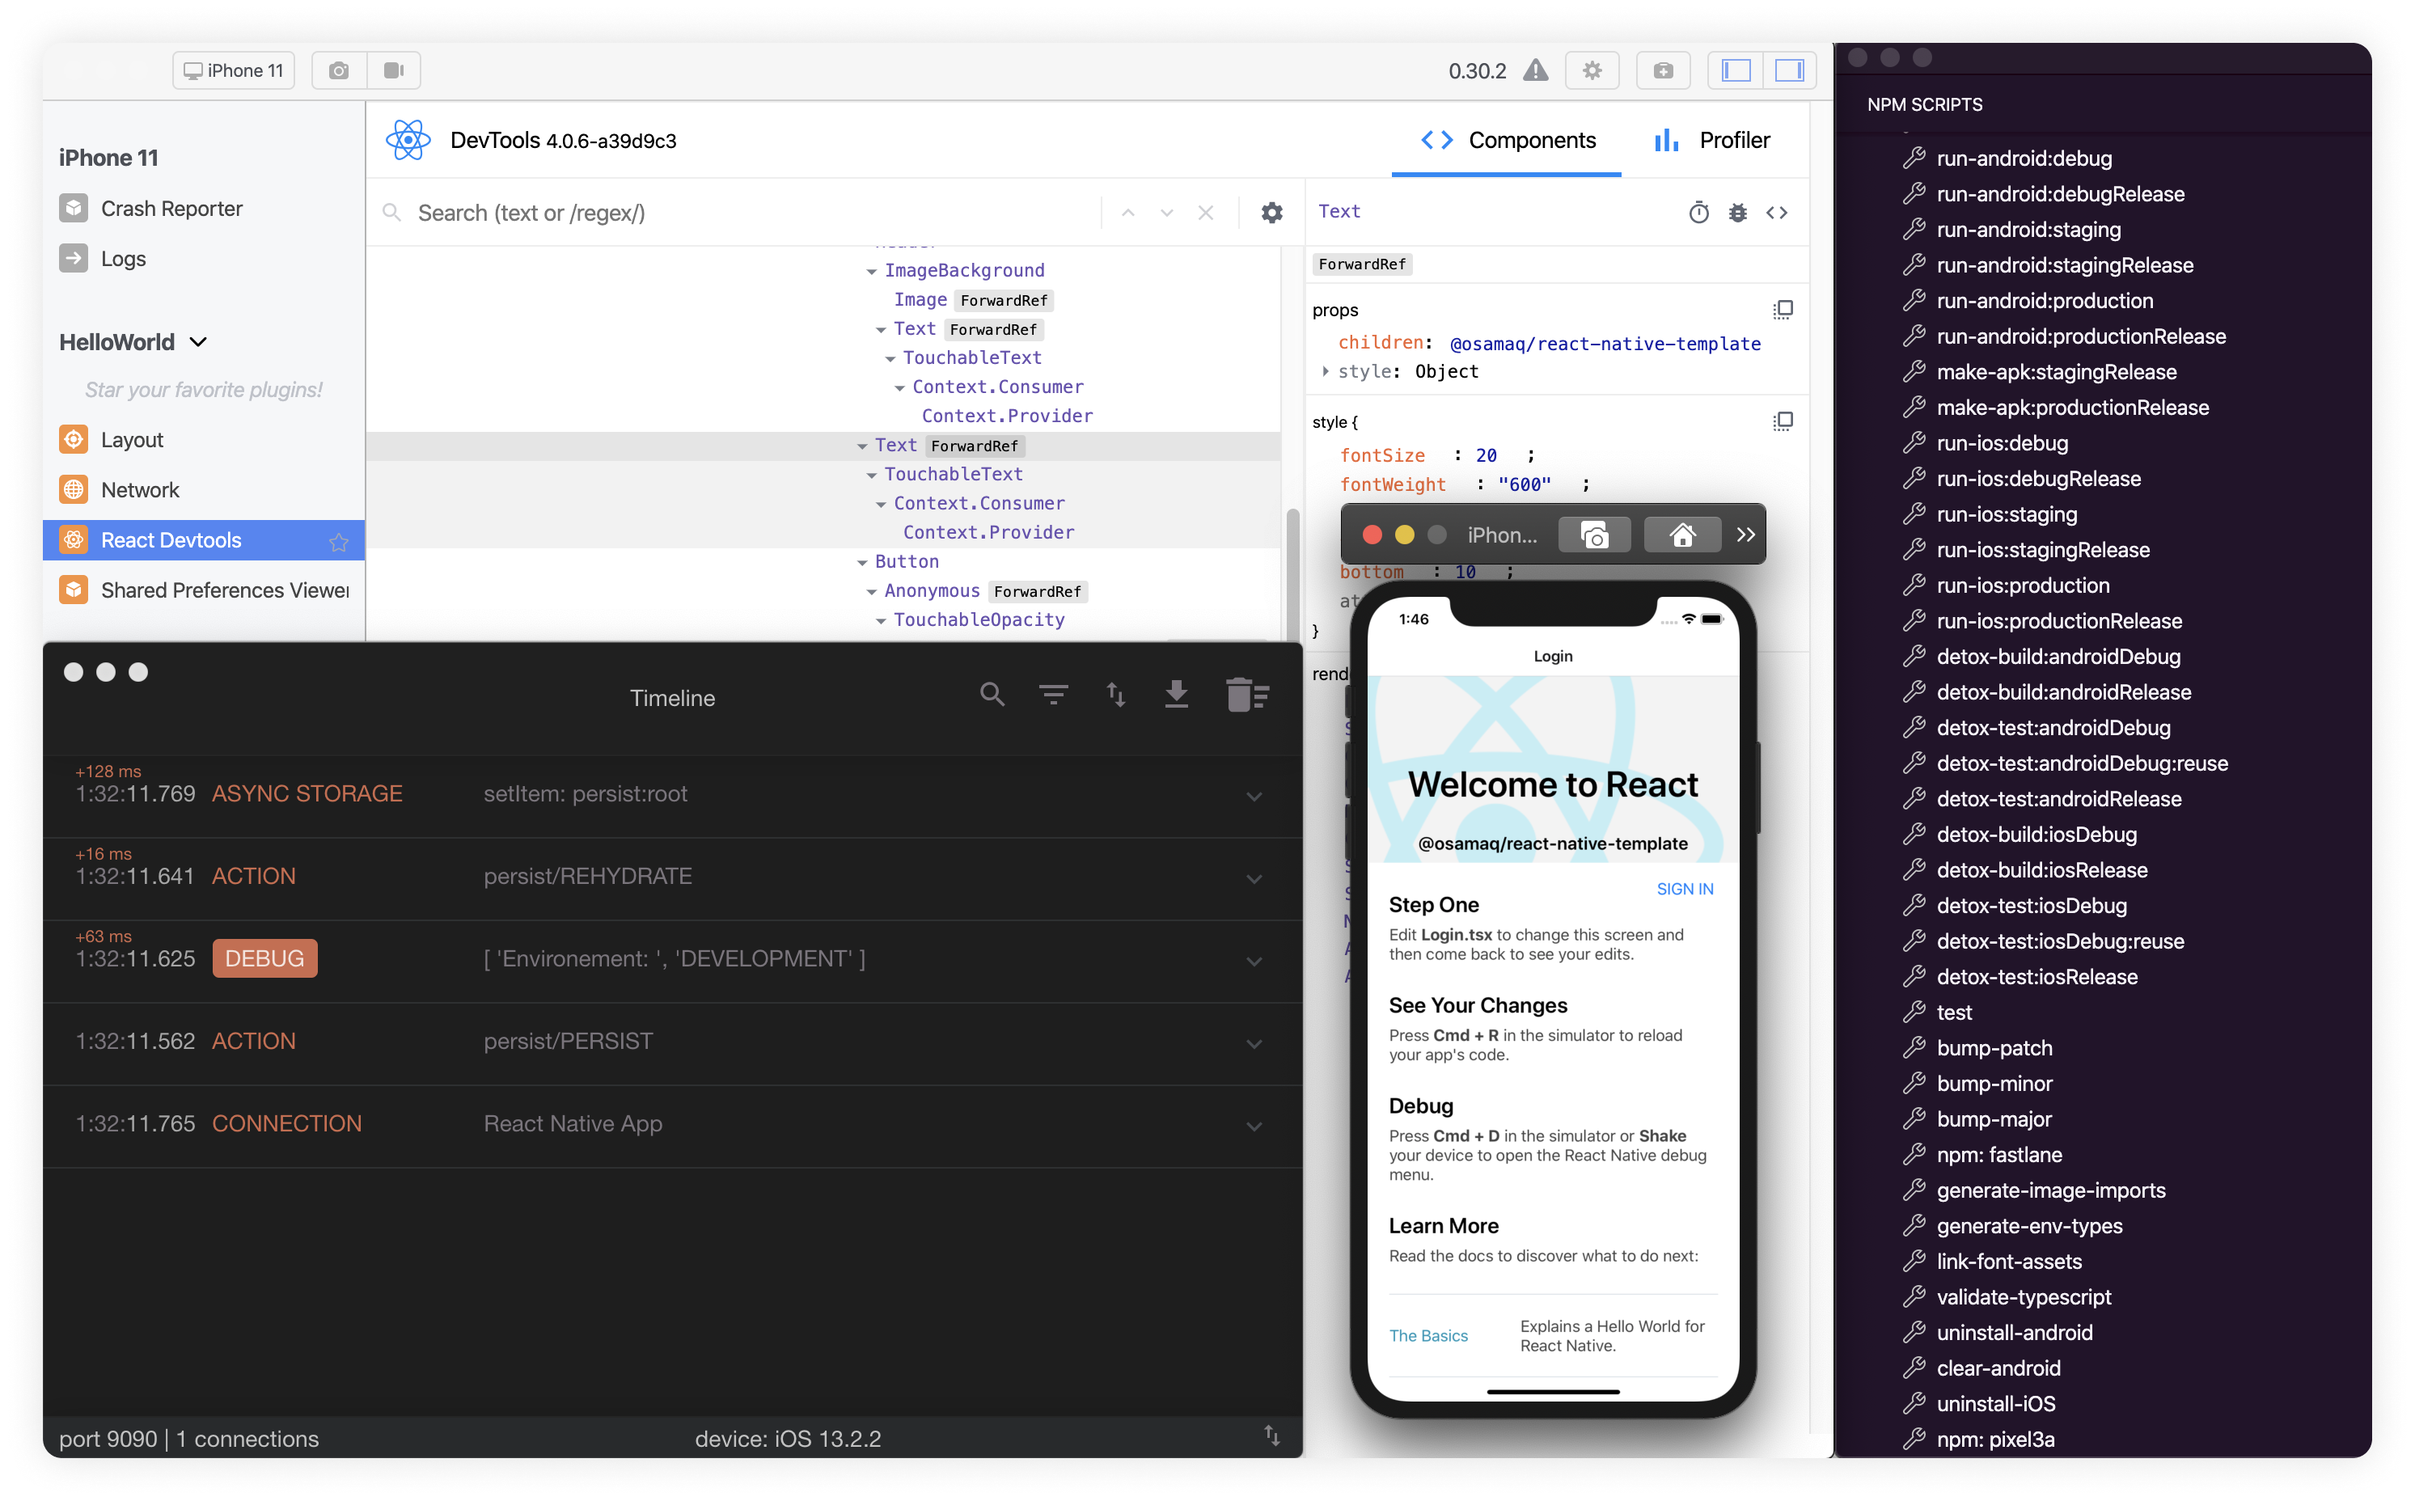
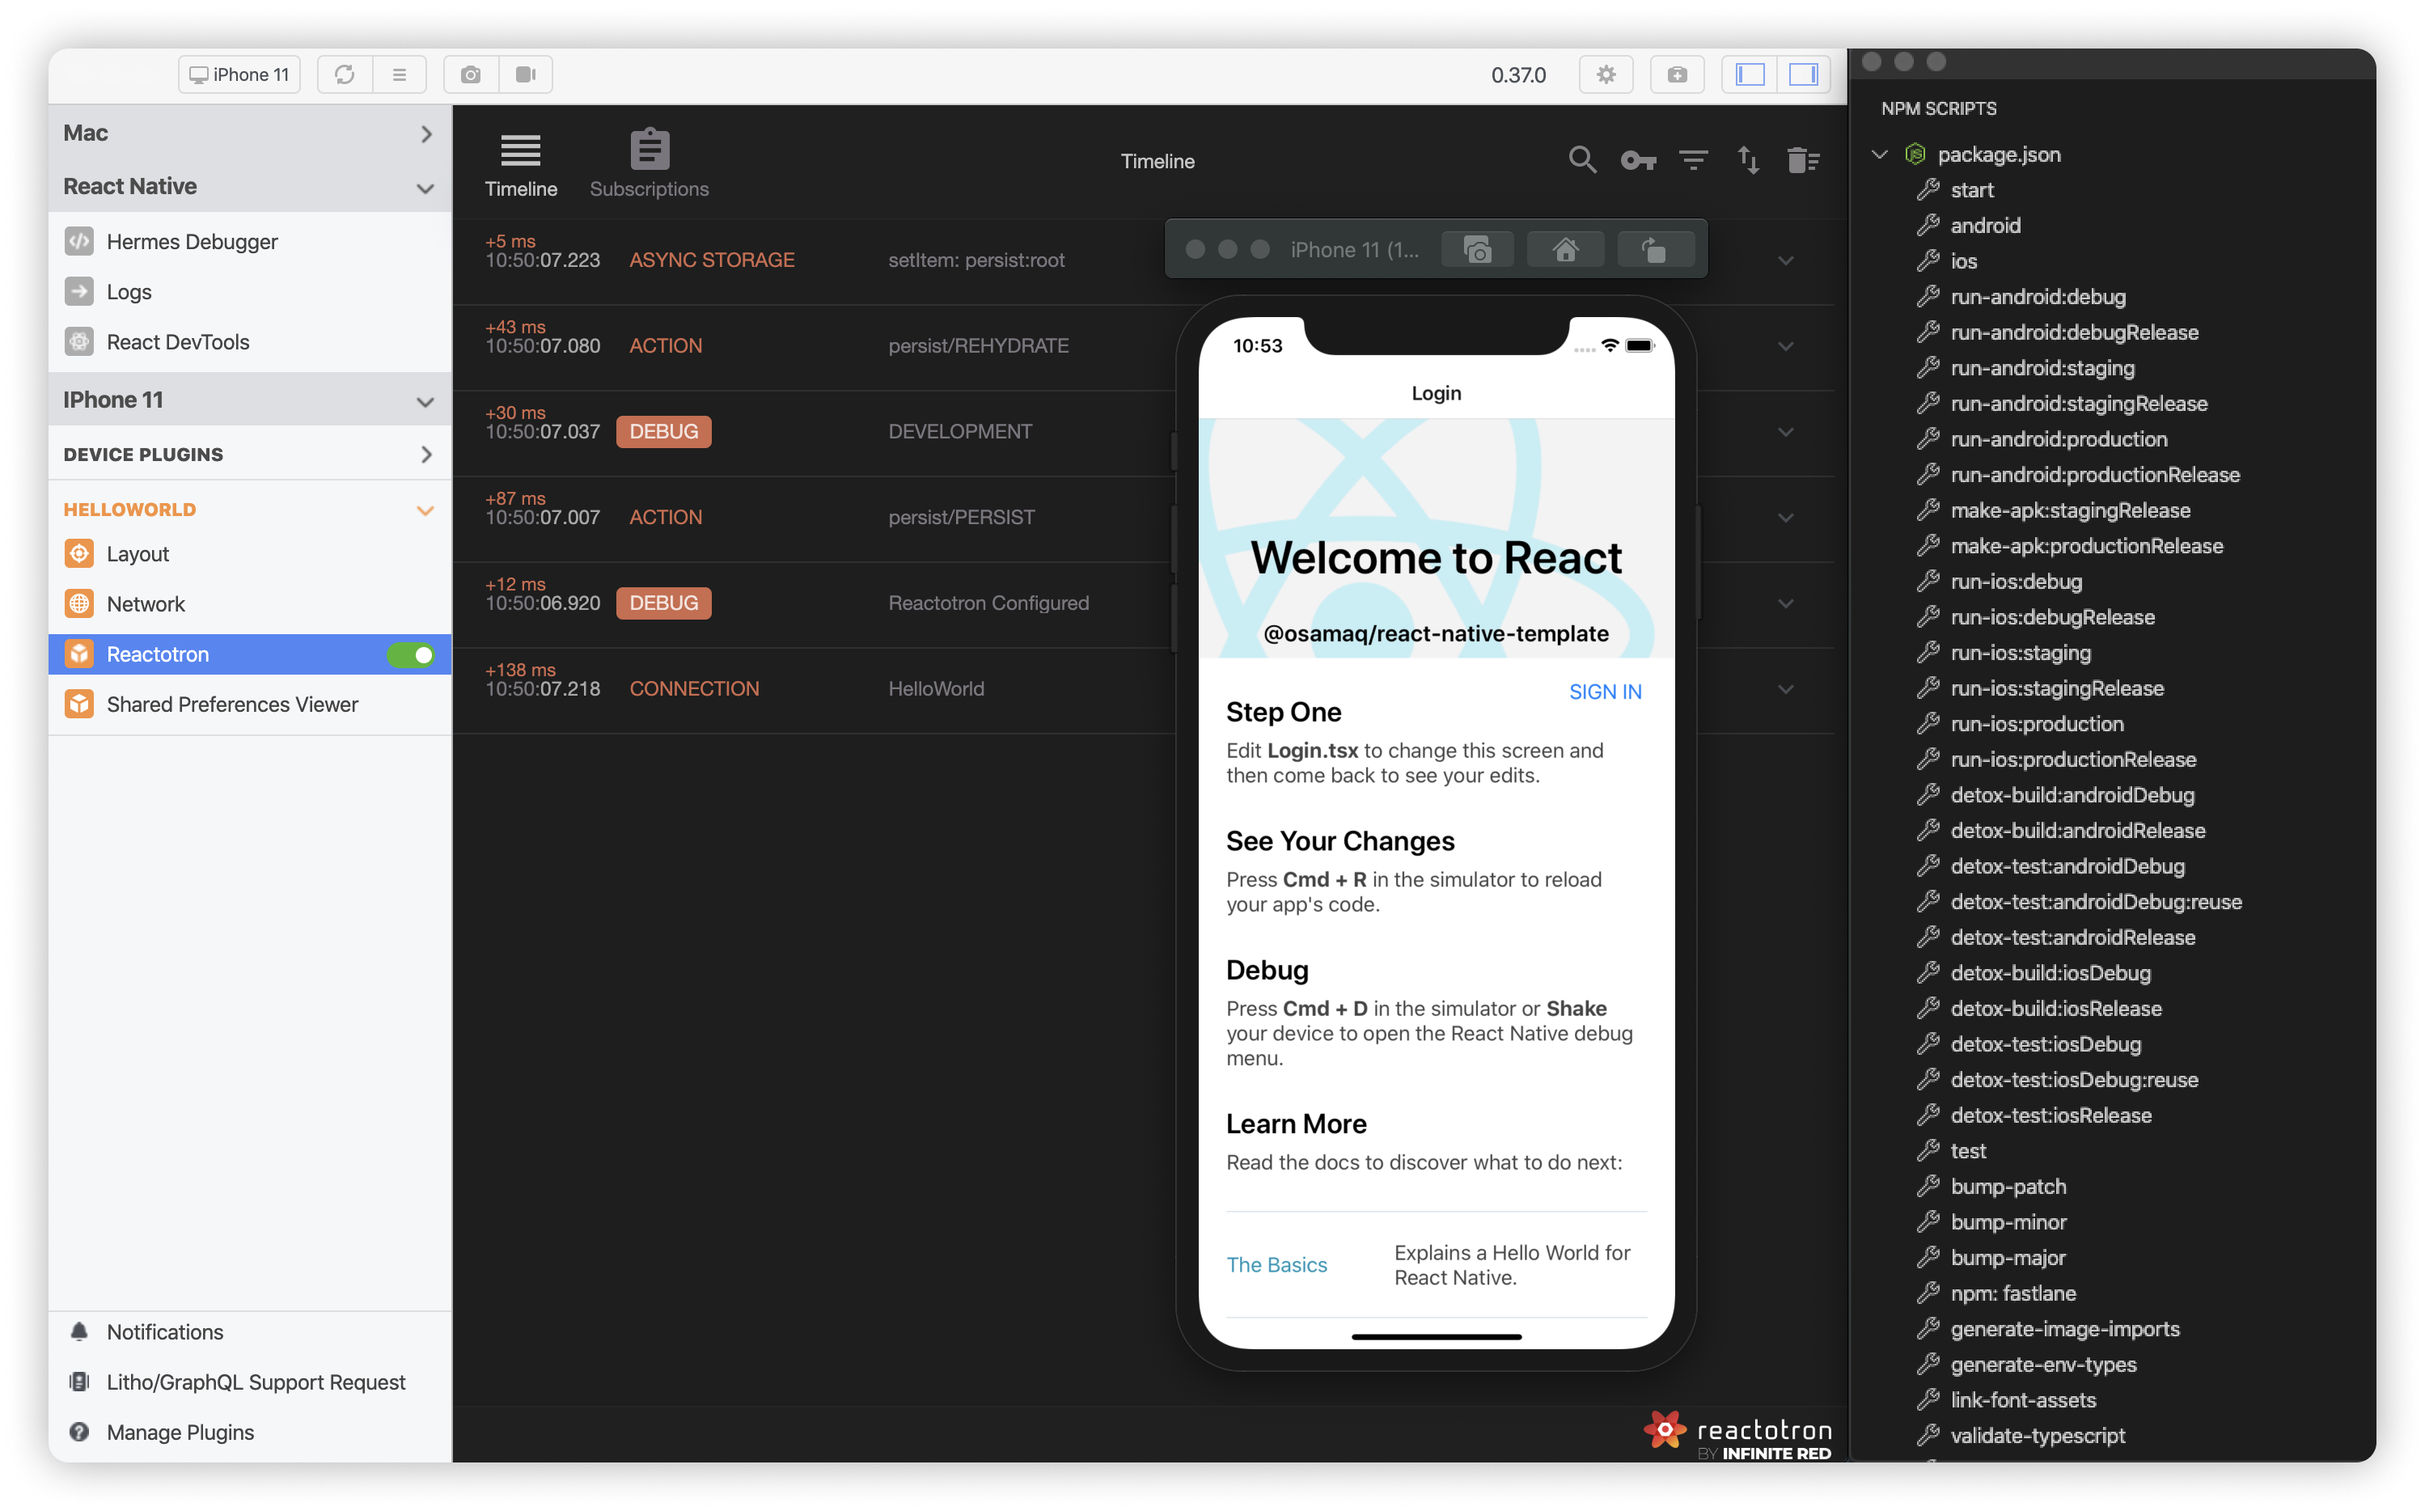
update: reactotron in flipper

diff --git a/README.md b/README.md
@@ -17,7 +17,7 @@ A minimal template with good architecture and common packages to let you focus o
 - [Redux](https://redux.js.org/) with [Redux Toolkit](https://redux-toolkit.js.org/)
 - [Redux Observable](https://redux-observable.js.org/)
 - [React Navigation](https://reactnavigation.org/) (**v5**)
-- [Reactotron](https://github.com/infinitered/reactotron) (and [Flipper](https://fbflipper.com/))
+- [Reactotron](https://github.com/infinitered/reactotron) [<i>in</i>](https://shift.infinite.red/better-react-native-debugging-with-reactotron-in-flipper-6b823af29220) [Flipper](https://fbflipper.com/)
 - [Sentry](https://docs.sentry.io/platforms/react-native/) with redux action logging middleware
 - [react-native-splash-screen](https://github.com/crazycodeboy/react-native-splash-screen)
 - [react-native-svg](https://github.com/react-native-community/react-native-svg)
